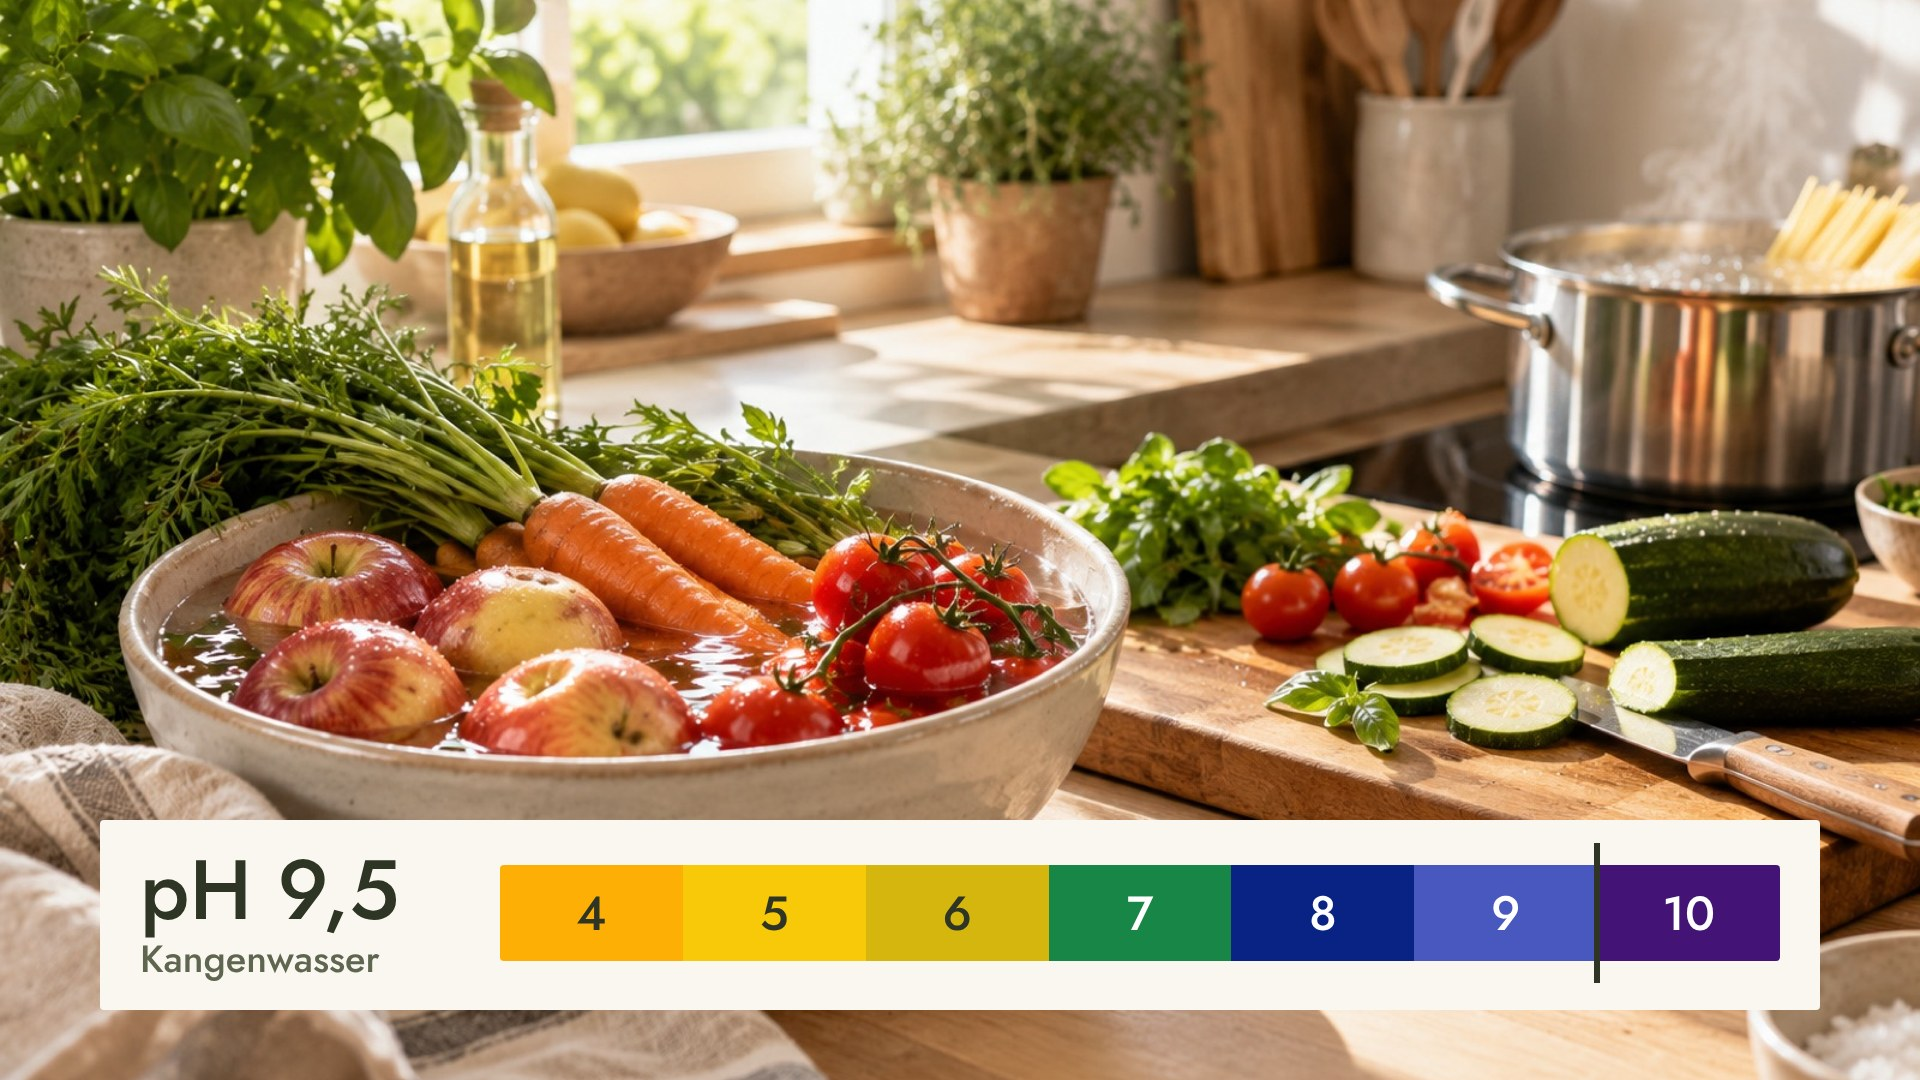
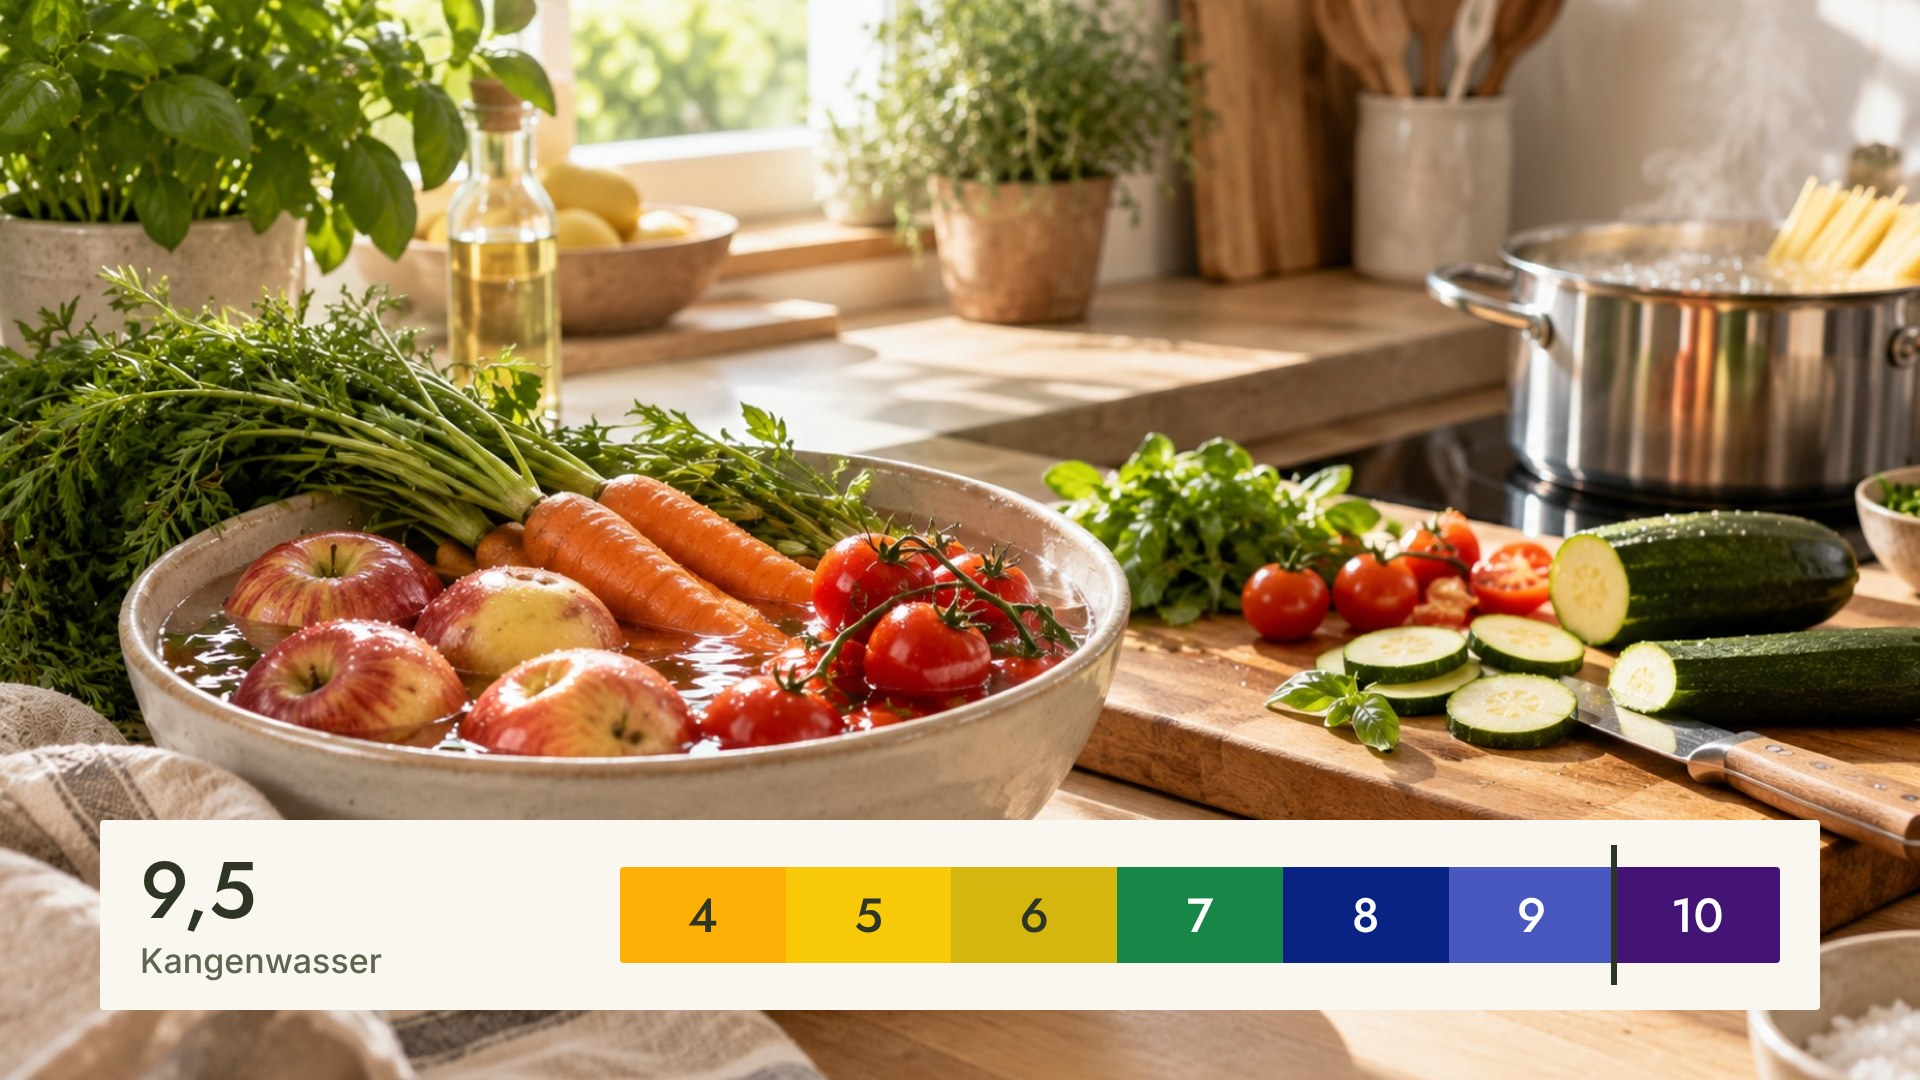
Video-Folien: pH-Einblendungen für den Glastest (5 Leisten, transparent)
Claude-Session: https://claude.ai/code/session_01CR4WzncWcQHYtr53SptXhG

Changed region(s): [[0.25, 0.7944, 0.9062, 0.9167], [0.0625, 0.7944, 0.2188, 0.8861], [0.0938, 0.8861, 0.1875, 0.9167]]

diff --git a/video-folien-k8/einblendungen.html b/video-folien-k8/einblendungen.html
@@ -4,46 +4,65 @@
 <meta charset="utf-8">
 <title>Einblendungen LeveLuk K8</title>
 <!--
-  Einblendungen für das untere Bilddrittel, 1920 x 1080, transparenter Hintergrund.
+  Einblendungen für das untere Bilddrittel (Test mit den Gläsern), 1920 x 1080, transparenter Hintergrund.
   Rendern:  node render-einblendungen.js   (PNG mit Transparenz in png-einblendungen/)
+
+  Pro Glas eine <section>. Felder:
+    data-datei  Dateiname der PNG
+    data-wert   große Zahl links
+    data-name   Wort darunter
+    data-ph     ein Wert: senkrechter Strich an dieser Stelle
+    data-von / data-bis   ein Bereich: Rahmen um diese Felder
 -->
 <style>
   @font-face { font-family: "Jost"; font-weight: 500; src: url("schriften/jost-latin-500-normal.woff2") format("woff2"); }
-  @font-face { font-family: "Inter"; font-weight: 600; src: url("schriften/inter-latin-600-normal.woff2") format("woff2"); }
-  :root { --grund: #FAF7F0; --hervor: #EADFCC; --text: #2F3524; --text2: #5F6650; }
+  @font-face { font-family: "Inter"; font-weight: 500; src: url("schriften/inter-latin-500-normal.woff2") format("woff2"); }
+  :root { --grund: #FAF7F0; --text: #2F3524; --text2: #5F6650; }
   * { box-sizing: border-box; margin: 0; padding: 0; }
   body { background: transparent; }
   .einblendung { position: relative; width: 1920px; height: 1080px; overflow: hidden; background: transparent; }
-  .leiste { position: absolute; left: 100px; right: 100px; bottom: 70px; background: var(--grund);
-    border-radius: 4px; padding: 28px 40px 32px; display: grid; grid-template-columns: 320px 1fr; align-items: center; gap: 40px; }
-  .titel { font-family: "Jost"; font-weight: 500; font-size: 84px; line-height: 1; color: var(--text); }
-  .titel small { display: block; font-size: 38px; margin-top: 8px; color: var(--text2); }
-  .band { position: relative; display: grid; grid-template-columns: repeat(7, 1fr); height: 96px; border-radius: 4px; overflow: hidden; }
+  .leiste { position: absolute; left: 100px; right: 100px; bottom: 70px; height: 190px; background: var(--grund);
+    border-radius: 4px; padding: 0 40px; display: grid; grid-template-columns: 440px 1fr; align-items: center; gap: 40px; }
+  .wert { font-family: "Jost"; font-weight: 500; font-size: 80px; line-height: 1; color: var(--text); }
+  .name { font-family: "Inter"; font-weight: 500; font-size: 34px; margin-top: 10px; color: var(--text2); white-space: nowrap; }
+  .bandrahmen { position: relative; }
+  .band { display: grid; grid-template-columns: repeat(7, 1fr); height: 96px; border-radius: 4px; overflow: hidden; }
   .band div { display: flex; align-items: center; justify-content: center; font-family: "Jost"; font-weight: 500; font-size: 48px; }
   .zeiger { position: absolute; top: -22px; bottom: -22px; width: 0; border-left: 6px solid var(--text); }
-  .bandrahmen { position: relative; }
+  .bereich { position: absolute; top: -12px; bottom: -12px; border: 6px solid var(--text); border-radius: 6px; }
 </style>
 </head>
 <body>
 
-<!-- data-ph = wo der Zeiger steht; Titel und Wert links anpassen -->
-<section class="einblendung" data-datei="einblendung-ph-kangenwasser" data-ph="9.5">
-  <div class="leiste">
-    <div class="titel">pH 9,5<small>Kangenwasser</small></div>
-    <div class="bandrahmen"><div class="band"></div><div class="zeiger"></div></div>
-  </div>
-</section>
+<section class="einblendung" data-datei="einblendung-1-leitungswasser" data-wert="7 bis 8" data-name="Leitungswasser" data-von="7" data-bis="8"></section>
+<section class="einblendung" data-datei="einblendung-2-kangenwasser" data-wert="9,5" data-name="Kangenwasser" data-ph="9.5"></section>
+<section class="einblendung" data-datei="einblendung-3-flaschenwasser" data-wert="ca. 8,5" data-name="basisches Flaschenwasser" data-ph="8.5"></section>
+<section class="einblendung" data-datei="einblendung-4-sprudelwasser" data-wert="sauer" data-name="Sprudelwasser" data-von="4" data-bis="6"></section>
+<section class="einblendung" data-datei="einblendung-5-abwasser" data-wert="ca. 4,5" data-name="Abwasser der Maschine" data-ph="4.5"></section>
 
 <script>
+// Farben wie die Farbtabelle beim Tropfentest (pH 4 bis 10)
 const FELDER = [["4","#FDAF05","#2F3524"],["5","#F8C909","#2F3524"],["6","#D5B60E","#2F3524"],["7","#188647","#FFFFFF"],
                 ["8","#092384","#FFFFFF"],["9","#4958BF","#FFFFFF"],["10","#431376","#FFFFFF"]];
+const pos = ph => (ph - 3.5) / 7 * 100;   // Feld n reicht von n-0,5 bis n+0,5, in Prozent der Bandbreite
 document.fonts.ready.then(() => {
   document.querySelectorAll(".einblendung").forEach(e => {
-    const band = e.querySelector(".band");
+    e.innerHTML = `<div class="leiste"><div><div class="wert"></div><div class="name"></div></div>
+      <div class="bandrahmen"><div class="band"></div></div></div>`;
+    e.querySelector(".wert").textContent = e.dataset.wert;
+    e.querySelector(".name").textContent = e.dataset.name;
+    const band = e.querySelector(".band"), rahmen = e.querySelector(".bandrahmen");
     FELDER.forEach(([w, bg, fg]) => { const d = document.createElement("div"); d.textContent = w;
       d.style.background = bg; d.style.color = fg; band.appendChild(d); });
-    const ph = parseFloat(e.dataset.ph), z = e.querySelector(".zeiger");
-    z.style.left = `calc(${(ph - 3.5) / 7 * 100}% - 3px)`;   // Feld n reicht von n-0,5 bis n+0,5
+    if (e.dataset.ph) {
+      const z = document.createElement("div"); z.className = "zeiger";
+      z.style.left = `calc(${pos(+e.dataset.ph)}% - 3px)`; rahmen.appendChild(z);
+    } else {
+      const b = document.createElement("div"); b.className = "bereich";
+      b.style.left = `calc(${pos(+e.dataset.von - 0.5)}% - 6px)`;
+      b.style.width = `calc(${(+e.dataset.bis - +e.dataset.von + 1) / 7 * 100}% + 12px)`;
+      rahmen.appendChild(b);
+    }
   });
   window.fertig = true;
 });
